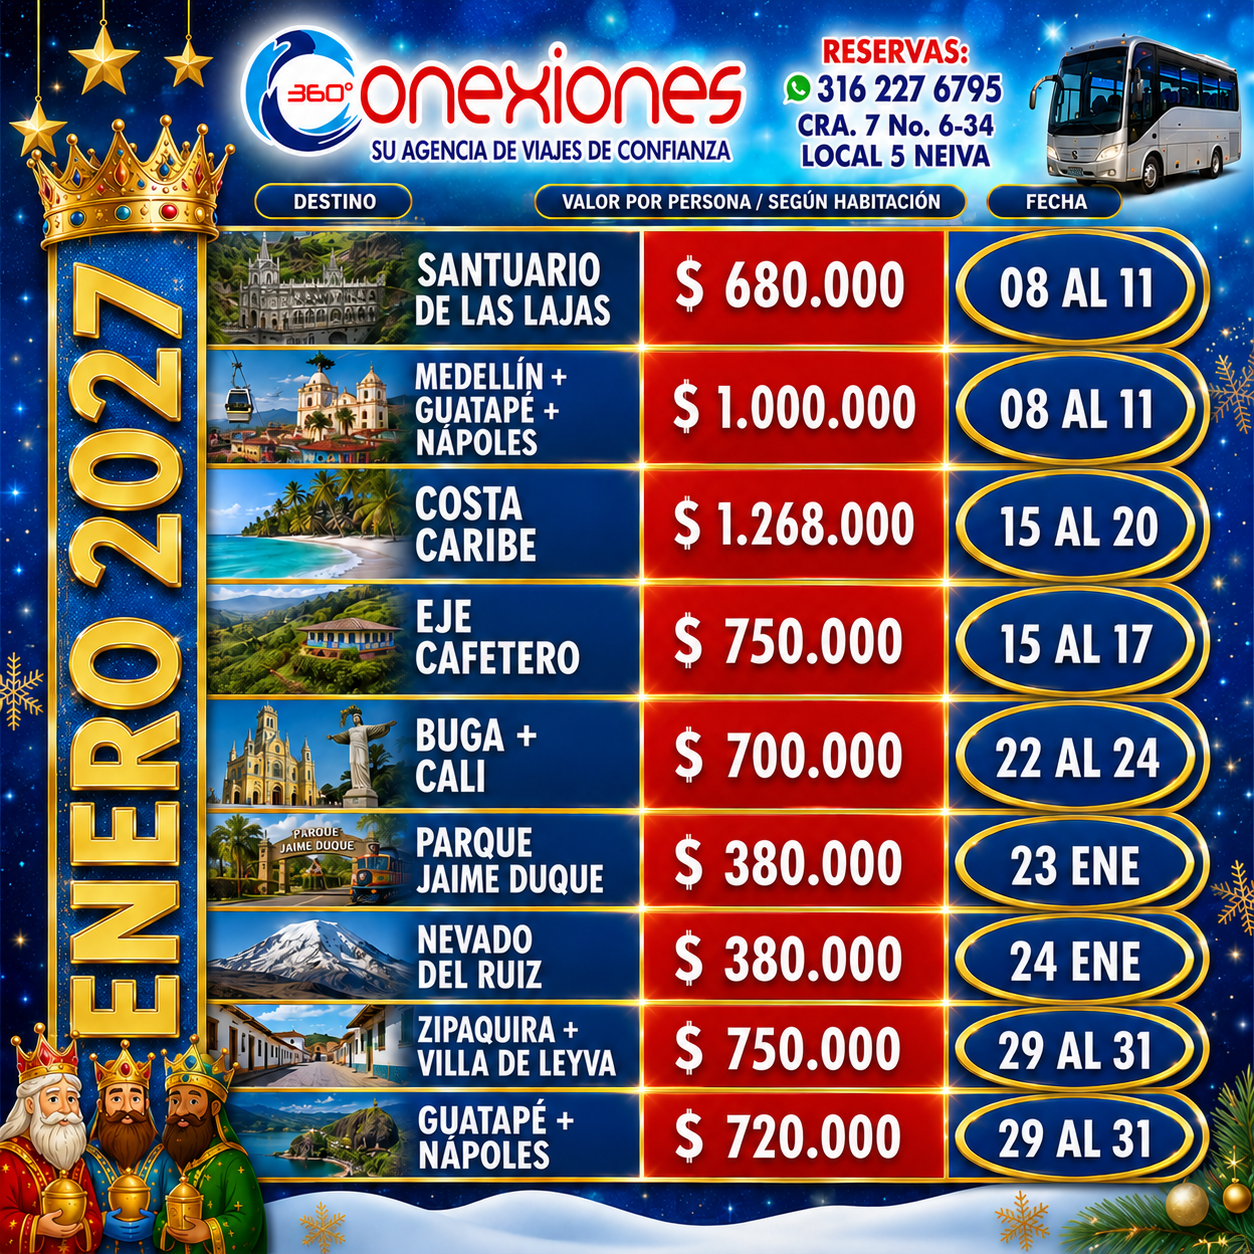
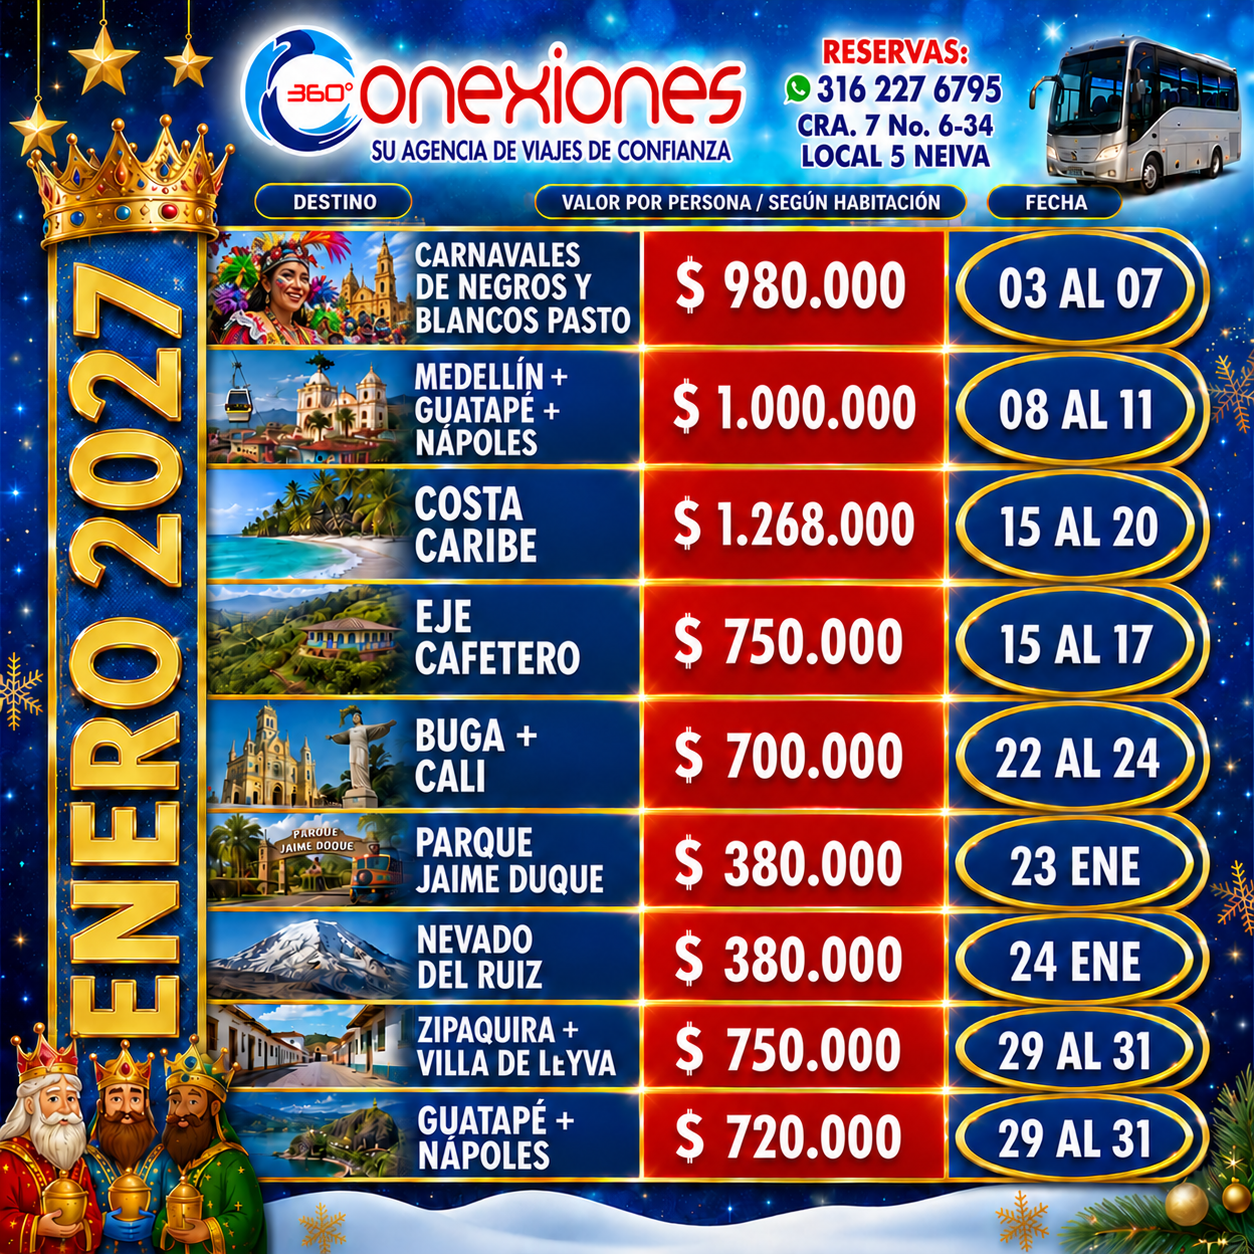
adiciones enero2027

diff --git a/src/data/flyers/flyers.ts b/src/data/flyers/flyers.ts
@@ -182,6 +182,18 @@ export const flyers: FlyerPlan[] = [
     whatsappBase:
       "Hola Conexiones360, quiero información del plan Enero 2027",
   },
+      {
+    id: "carnaval-enero",
+    mes: "enero",
+    año: 2027,
+    tipo: "terrestre",
+    titulo: "Carnaval de Blancos y Negros",
+    fechas: ["Enero 3 al 7"],
+    precio: 980000,
+    imagen: "/Enero2027/lajas.jpg",
+    whatsappBase:
+      "Hola Conexiones360, quiero información del plan Carnaval de Blancos y Negros - Enero 2027",
+  },
     {
     id: "santuariolajas-enero",
     mes: "enero",
